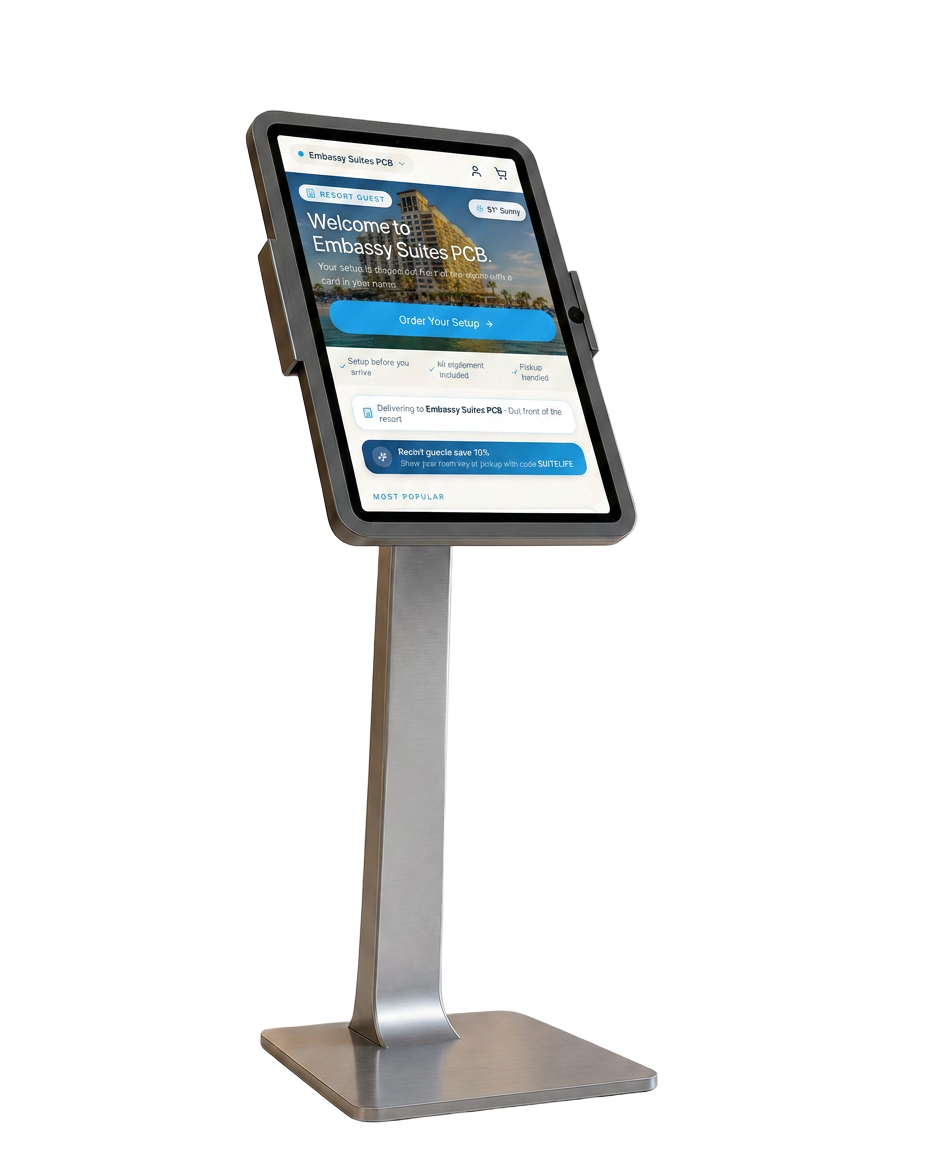
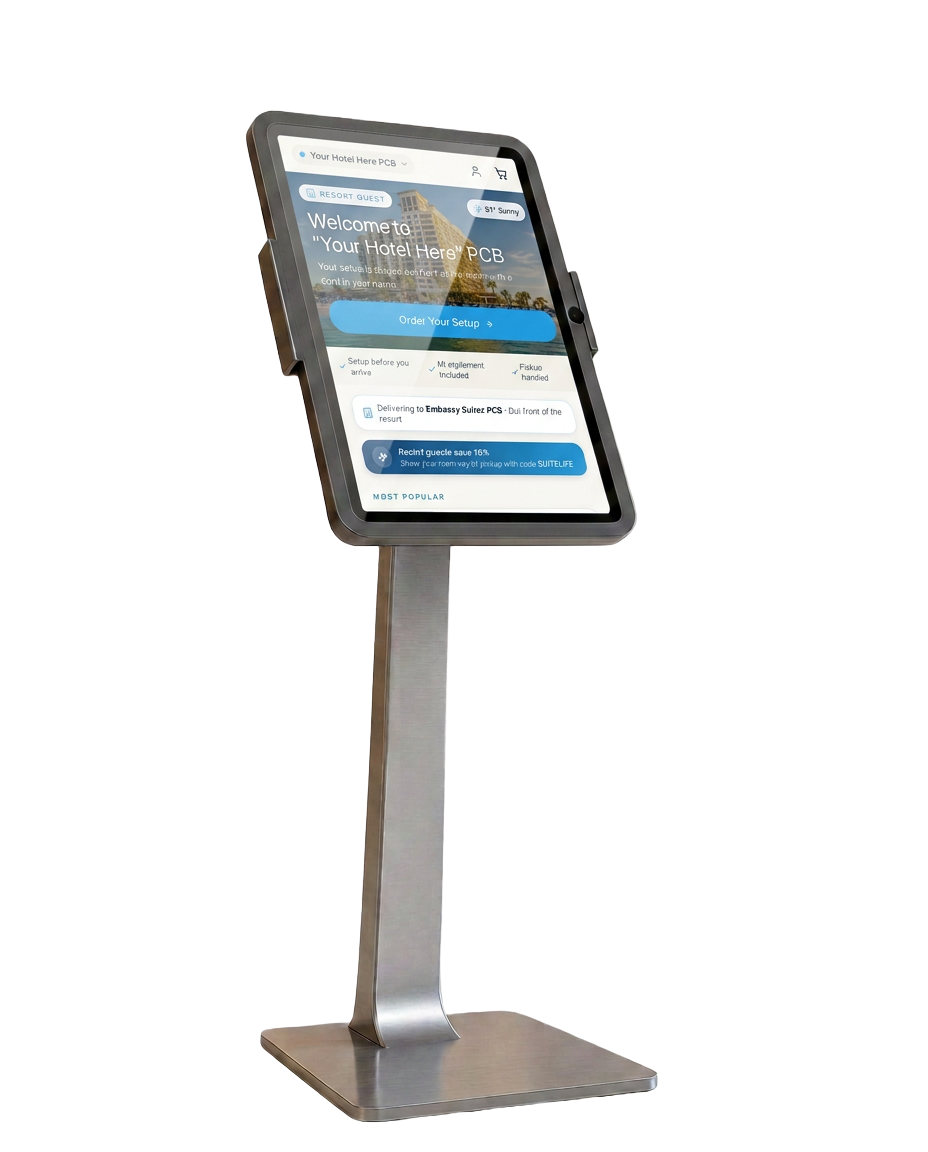
Sync kiosk landing with Lovable and block food checkout when staff pause food.

Changed region(s): [[0.2812, 0.0938, 0.5625, 0.4688], [0.5312, 0.25, 0.5938, 0.2812]]

diff --git a/app/food/checkout/page.tsx b/app/food/checkout/page.tsx
@@ -53,6 +53,7 @@ import {
 } from "../../../lib/ordering/pendingCheckoutPayment";
 import { assertOrderingOpen, fetchOrderingStatus } from "../../../lib/services/orderingEnabled";
 import { assertCheckoutAllowed, fetchSameDayOrdersEnabled } from "../../../lib/services/sameDayOrdering";
+import { assertFoodOrderingOpen, fetchFoodOrderingStatus } from "../../../lib/services/foodOrderingEnabled";
 import { toast } from "sonner";
 import { X } from "lucide-react";
 
@@ -80,6 +81,7 @@ export default function FoodCheckoutPage() {
   const [promoError, setPromoError] = useState("");
   const [orderingEnabled, setOrderingEnabled] = useState(true);
   const [sameDayEnabled, setSameDayEnabled] = useState(true);
+  const [foodOrderingEnabled, setFoodOrderingEnabled] = useState(true);
   const confirmRef = useRef<((clientSecret: string) => Promise<string | undefined>) | null>(null);
 
   const serviceDate = useMemo(() => startOfDay(new Date()), []);
@@ -93,6 +95,10 @@ export default function FoodCheckoutPage() {
     });
     void fetchSameDayOrdersEnabled("vb").then((enabled) => {
       if (!cancelled) setSameDayEnabled(enabled);
+    });
+    void fetchFoodOrderingStatus().then((status) => {
+      if (cancelled || !status.known) return;
+      setFoodOrderingEnabled(status.enabled);
     });
     return () => {
       cancelled = true;
@@ -204,10 +210,20 @@ export default function FoodCheckoutPage() {
       toast.error("Ordering is paused right now.");
       return;
     }
+    if (!foodOrderingEnabled) {
+      toast.error("Food ordering is paused right now.");
+      return;
+    }
     try {
       await assertOrderingOpen();
     } catch (e) {
       toast.error(e instanceof Error ? e.message : "Ordering is paused right now.");
+      return;
+    }
+    try {
+      await assertFoodOrderingOpen();
+    } catch (e) {
+      toast.error(e instanceof Error ? e.message : "Food ordering is paused right now.");
       return;
     }
     if (!windowOpen) {
@@ -277,6 +293,7 @@ export default function FoodCheckoutPage() {
             marketId: "vb",
             serviceDate: serviceDateKey,
             idempotencyKey: checkoutIdempotencyKey(fingerprint),
+            includesFood: true,
           },
         );
         paymentIntentId = (await confirmRef.current(clientSecret)) ?? "";
@@ -384,6 +401,10 @@ export default function FoodCheckoutPage() {
           {!orderingEnabled ? (
             <p className="rounded-2xl border border-amber-300 bg-amber-50 px-4 py-3 text-sm">
               Ordering is paused right now. Food checkout is closed until staff turn it back on.
+            </p>
+          ) : !foodOrderingEnabled ? (
+            <p className="rounded-2xl border border-amber-300 bg-amber-50 px-4 py-3 text-sm">
+              Food ordering is paused right now. Gear bookings may still be open.
             </p>
           ) : !sameDayEnabled ? (
             <p className="rounded-2xl border border-amber-300 bg-amber-50 px-4 py-3 text-sm">
@@ -611,6 +632,7 @@ export default function FoodCheckoutPage() {
             disabled={
               submitting ||
               !orderingEnabled ||
+              !foodOrderingEnabled ||
               !sameDayEnabled ||
               !windowOpen ||
               !name.trim() ||

diff --git a/components/food/FoodMenuClient.tsx b/components/food/FoodMenuClient.tsx
@@ -1,17 +1,31 @@
 "use client";
 
-import { useMemo, useState } from "react";
+import { useEffect, useMemo, useState } from "react";
 import Link from "next/link";
 import { Button } from "../button";
 import SiteNav from "../SiteNav";
+import FoodOrderingGateBanner from "./FoodOrderingGateBanner";
 import { getFoodRestaurant } from "../../lib/ordering/catalog";
 import { useFoodBag } from "../../contexts/FoodBagContext";
+import { fetchFoodOrderingStatus } from "../../lib/services/foodOrderingEnabled";
 import { toast } from "sonner";
 
 export default function FoodMenuClient({ restaurantId }: { restaurantId: string }) {
   const restaurant = getFoodRestaurant(restaurantId);
   const { lines, addLine } = useFoodBag();
   const [cheeseByItem, setCheeseByItem] = useState<Record<string, string>>({});
+  const [foodOrderingEnabled, setFoodOrderingEnabled] = useState(true);
+
+  useEffect(() => {
+    let cancelled = false;
+    void fetchFoodOrderingStatus().then((status) => {
+      if (cancelled || !status.known) return;
+      setFoodOrderingEnabled(status.enabled);
+    });
+    return () => {
+      cancelled = true;
+    };
+  }, []);
 
   const bagCount = useMemo(() => lines.reduce((n, l) => n + l.quantity, 0), [lines]);
   const bagForRestaurant = useMemo(
@@ -60,6 +74,10 @@ export default function FoodMenuClient({ restaurantId }: { restaurantId: string 
           </div>
         </div>
 
+        <div className="mt-4">
+          <FoodOrderingGateBanner />
+        </div>
+
         <div className="mt-8 space-y-8">
           {sections.map((section) => (
             <section key={section}>
@@ -104,7 +122,12 @@ export default function FoodMenuClient({ restaurantId }: { restaurantId: string 
                           <Button
                             size="sm"
                             className="mt-2 rounded-full bg-[#083b6c]"
+                            disabled={!foodOrderingEnabled}
                             onClick={() => {
+                              if (!foodOrderingEnabled) {
+                                toast.error("Food ordering is paused right now.");
+                                return;
+                              }
                               if (cheeseOpt && !cheese) {
                                 toast.error("Pick a cheese.");
                                 return;

diff --git a/app/kiosk/page.tsx b/app/kiosk/page.tsx
@@ -116,14 +116,14 @@ export default function KioskPage() {
               </a>
             </div>
             <p className="mt-8 text-sm text-muted-foreground">
-              Installed in oceanfront properties along the Gulf and Atlantic coasts.
+              Built for oceanfront properties along the Gulf and Atlantic coasts.
             </p>
           </div>
           <div className="group relative flex justify-center [perspective:1400px]">
             <div className="absolute bottom-10 h-56 w-56 rounded-full bg-[#bbefff]/60 blur-3xl" />
             <img
               src="/assets/kiosk/kiosk-hero.png"
-              alt="iPad kiosk on a floor stand showing the ShoreDrop home screen welcoming Embassy Suites PCB guests with an Order Your Setup button"
+              alt='iPad kiosk on a floor stand showing the ShoreDrop home screen welcoming "Your Hotel Here" PCB guests with an Order Your Setup button'
               width={1200}
               height={1408}
               className="relative w-full max-w-[420px] drop-shadow-[0_50px_60px_rgba(13,43,78,0.28)] transition-transform duration-700 ease-out will-change-transform [transform:rotateY(-9deg)_rotateX(2deg)] group-hover:[transform:rotateY(-2deg)_rotateX(0deg)_translateY(-10px)]"
@@ -192,7 +192,7 @@ export default function KioskPage() {
             <figure className="rounded-[2rem] border border-[#083b6c]/10 bg-white p-6 shadow-[0_2px_10px_rgba(8,59,108,0.06)]">
               <img
                 src="/assets/kiosk/kiosk-whitelabel.png"
-                alt="Kiosk home screen co-branded for Embassy Suites PCB with a welcome hero, delivery location and a resort-guest discount"
+                alt='Kiosk home screen co-branded for a sample property with a welcome hero, delivery location and a resort-guest discount'
                 loading="lazy"
                 width={1044}
                 height={1870}

diff --git a/lib/services/foodOrderingEnabled.ts b/lib/services/foodOrderingEnabled.ts
@@ -1,0 +1,45 @@
+import { getRestJsonHeaders, getRestUrl, isSupabaseConfigured } from "./supabase";
+
+export type FoodOrderingStatus = {
+  /** Customer-facing: food can be ordered right now (staff not forced off). */
+  enabled: boolean;
+  /** False if staff settings could not be read — checkout must not charge. */
+  known: boolean;
+};
+
+/**
+ * Staff food kill switch from the app (`food_staff_override` / `food_ordering_enabled`).
+ * Fail-closed at pay time via {@link assertFoodOrderingOpen}.
+ */
+export async function fetchFoodOrderingStatus(): Promise<FoodOrderingStatus> {
+  if (!isSupabaseConfigured()) return { enabled: true, known: false };
+  try {
+    const res = await fetch(
+      `${getRestUrl("app_settings")}?select=food_staff_override,food_ordering_enabled&id=eq.1`,
+      { headers: getRestJsonHeaders() },
+    );
+    if (!res.ok) return { enabled: true, known: false };
+    const rows = (await res.json()) as Array<{
+      food_staff_override?: string | null;
+      food_ordering_enabled?: boolean | null;
+    }>;
+    const row = Array.isArray(rows) ? rows[0] : null;
+    if (!row) return { enabled: true, known: false };
+    if (row.food_staff_override === "off" || row.food_ordering_enabled === false) {
+      return { enabled: false, known: true };
+    }
+    return { enabled: true, known: true };
+  } catch {
+    return { enabled: true, known: false };
+  }
+}
+
+export async function assertFoodOrderingOpen(): Promise<void> {
+  const status = await fetchFoodOrderingStatus();
+  if (!status.known) {
+    throw new Error("Couldn’t confirm food ordering is open. Try again in a moment — you have not been charged.");
+  }
+  if (!status.enabled) {
+    throw new Error("Food ordering is paused right now. You have not been charged.");
+  }
+}

diff --git a/components/booking/BookingClient.tsx b/components/booking/BookingClient.tsx
@@ -70,6 +70,7 @@ import {
 } from "../../lib/ordering/pendingCheckoutPayment";
 import { assertOrderingOpen, fetchOrderingStatus } from "../../lib/services/orderingEnabled";
 import { assertCheckoutAllowed, fetchSameDayOrdersEnabled } from "../../lib/services/sameDayOrdering";
+import { assertFoodOrderingOpen } from "../../lib/services/foodOrderingEnabled";
 import { toast } from "sonner";
 
 const STEPS = ["City", "Date", "Package", "Duration", "Location", "Pay"] as const;
@@ -365,6 +366,14 @@ export default function BookingClient() {
       toast.error(e instanceof Error ? e.message : "Ordering is paused right now.");
       return;
     }
+    if (includeFood) {
+      try {
+        await assertFoodOrderingOpen();
+      } catch (e) {
+        toast.error(e instanceof Error ? e.message : "Food ordering is paused right now.");
+        return;
+      }
+    }
     if (authRequiredMode && !authUser) {
       toast.error("Sign in to place your order.");
       return;
@@ -458,6 +467,7 @@ export default function BookingClient() {
             marketId,
             serviceDate: serviceDateKey,
             idempotencyKey: checkoutIdempotencyKey(fingerprint),
+            ...(includeFood ? { includesFood: true } : {}),
           },
         );
         paymentIntentId = (await confirmRef.current(clientSecret)) ?? "";

diff --git a/app/food/page.tsx b/app/food/page.tsx
@@ -3,6 +3,7 @@ import Link from "next/link";
 import { Star } from "lucide-react";
 import SiteNav from "../../components/SiteNav";
 import SiteFooter from "../../components/SiteFooter";
+import FoodOrderingGateBanner from "../../components/food/FoodOrderingGateBanner";
 import { FOOD_RESTAURANTS, FOOD_SCHEDULE_LABEL } from "../../lib/ordering/catalog";
 
 export const metadata: Metadata = {
@@ -23,6 +24,9 @@ export default function FoodPage() {
         <p className="mt-2 text-muted-foreground">
           Ordering open {FOOD_SCHEDULE_LABEL}. Virginia Beach only for now — Panama City Beach food is coming soon.
         </p>
+        <div className="mt-4">
+          <FoodOrderingGateBanner />
+        </div>
         <p className="mt-3 text-sm text-[#083b6c]/80">
           Add food to your bag, then add{" "}
           <Link href="/#services" className="font-semibold underline underline-offset-2">

diff --git a/components/food/FoodOrderingGateBanner.tsx b/components/food/FoodOrderingGateBanner.tsx
@@ -1,0 +1,28 @@
+"use client";
+
+import { useEffect, useState } from "react";
+import { fetchFoodOrderingStatus } from "../../lib/services/foodOrderingEnabled";
+
+/** Surfaces the app staff food kill switch on website food pages. */
+export default function FoodOrderingGateBanner() {
+  const [paused, setPaused] = useState(false);
+
+  useEffect(() => {
+    let cancelled = false;
+    void fetchFoodOrderingStatus().then((status) => {
+      if (cancelled || !status.known) return;
+      setPaused(!status.enabled);
+    });
+    return () => {
+      cancelled = true;
+    };
+  }, []);
+
+  if (!paused) return null;
+
+  return (
+    <div className="rounded-2xl border border-amber-500/40 bg-amber-500/10 px-4 py-3 text-sm text-amber-950">
+      Food ordering is paused right now. You can still browse the menu — checkout is blocked until we turn it back on.
+    </div>
+  );
+}

diff --git a/lib/services/stripePayment.ts b/lib/services/stripePayment.ts
@@ -38,6 +38,8 @@ export type CreatePaymentIntentOptions = {
   marketId?: string;
   serviceDate?: string;
   idempotencyKey?: string;
+  /** When true, Edge Function refuses the charge if staff paused food. */
+  includesFood?: boolean;
 };
 
 export async function createPaymentIntentClientSecret(
@@ -61,6 +63,7 @@ export async function createPaymentIntentClientSecret(
       ...(options?.marketId ? { marketId: options.marketId } : {}),
       ...(options?.serviceDate ? { serviceDate: options.serviceDate } : {}),
       ...(options?.idempotencyKey ? { idempotencyKey: options.idempotencyKey } : {}),
+      ...(options?.includesFood ? { includesFood: true } : {}),
     }),
   });
 
